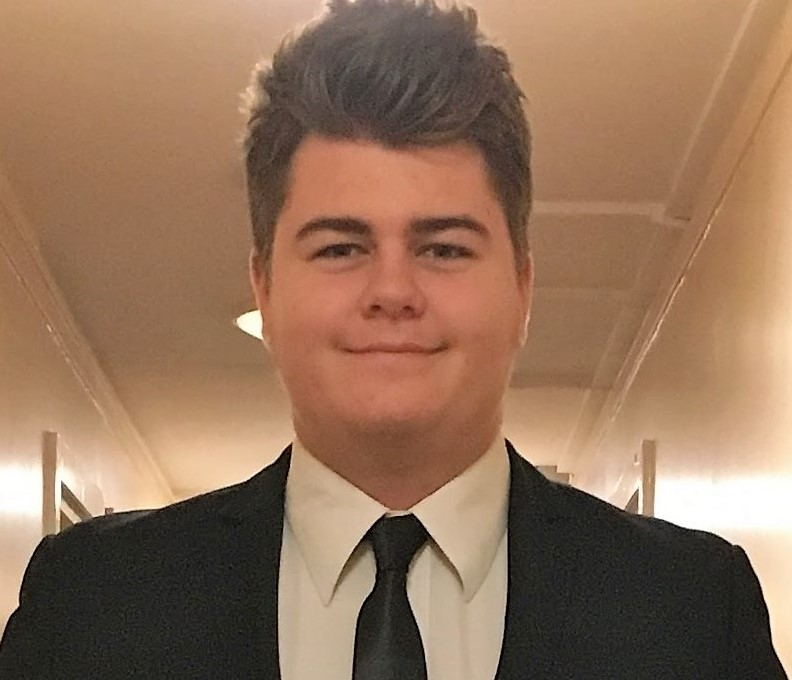
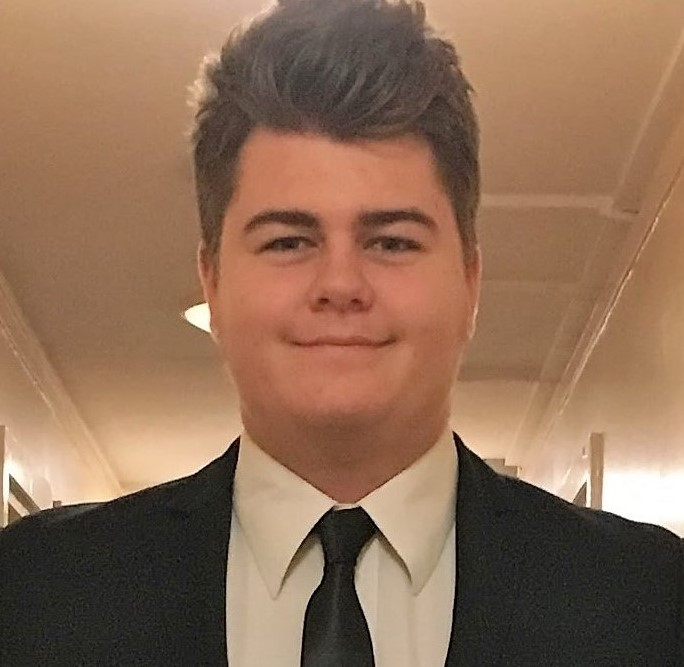
Format pic

diff --git a/index.html b/index.html
@@ -23,7 +23,7 @@
          
 		<div class="centring-container">
     		<div class="homepage-intro"><br><br>
-				<img src="Headshot.jpg" alt="Headshot" class="Headshot" height="680" width="792">
+				<img src="Headshot.jpg" alt="Headshot" class="Headshot" height="650">
 				<p>I'm a 3rd year student at The University Of Nottingham and a self-taught Python Software Developer.</p>
 			</div><!-- /.homepage-intro -->
 			<div class="homepage-reviews"><br>
